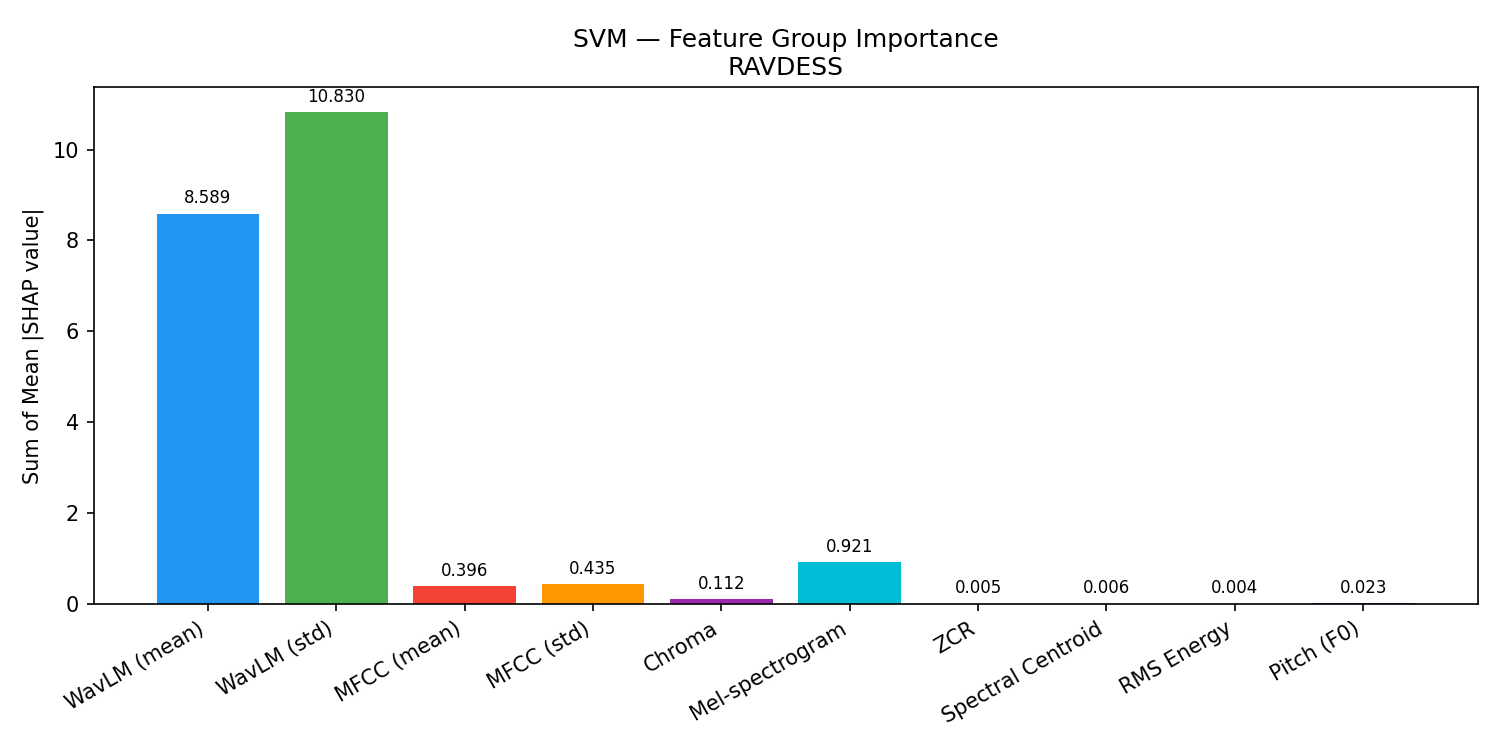
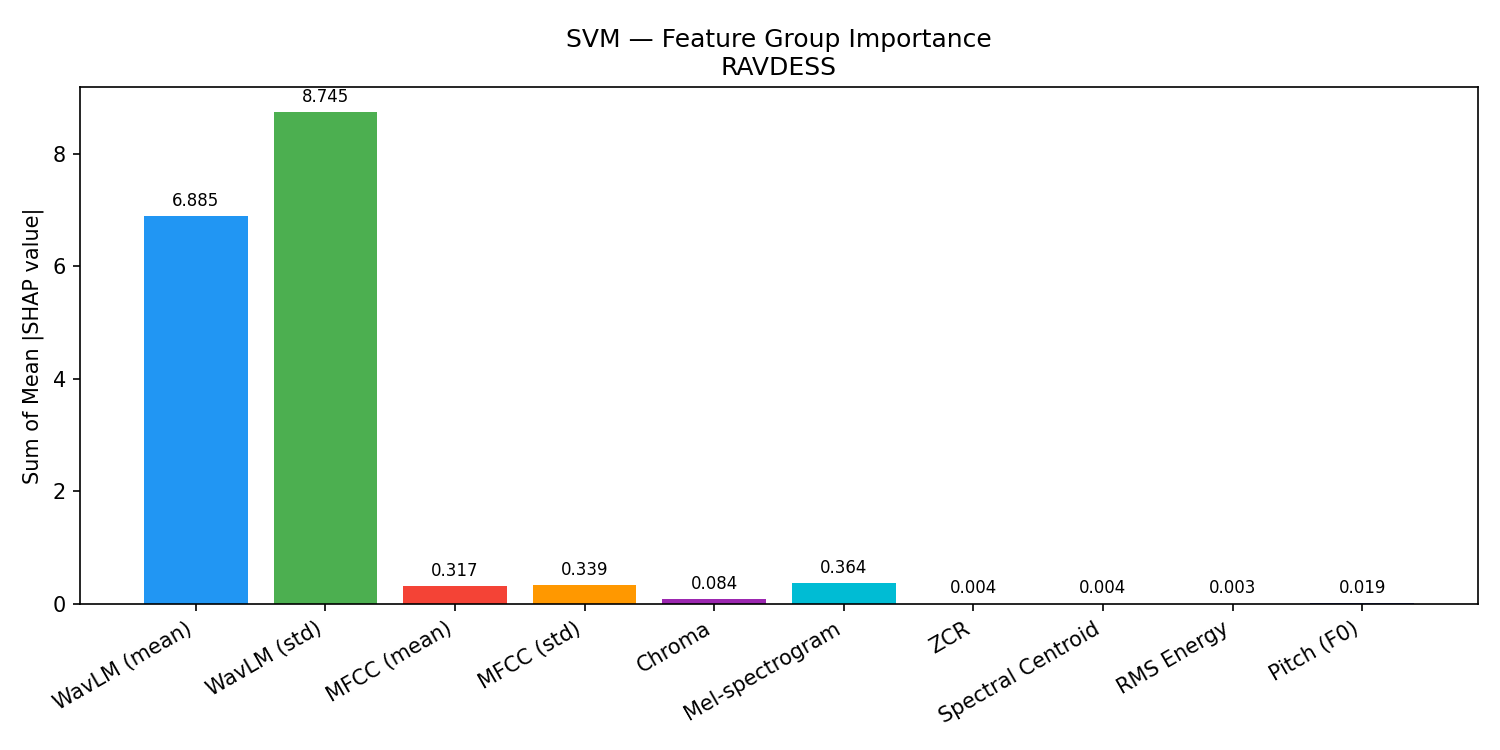
Compute SVM feature-group importance with genuine SHAP
The SVM feature-group plots were computed from mean absolute LinearSVC
coefficients while the y-axis was labelled "Sum of Mean |SHAP value|".
Switch to real SHAP via shap.LinearExplainer (exact closed form for a
linear model: phi_j = w_j(x_j - E[x_j])), so the label is now accurate.
KernelSHAP is unsuitable here (ill-posed at 2275 dims). Regenerated
svm_feature_groups.png for EMBODB, RAVDESS, SAVEE. Also reseed before
drawing the SHAP background subset for reproducibility.

diff --git a/standard/scripts/xai_analysis.py b/standard/scripts/xai_analysis.py
@@ -374,7 +374,8 @@ def run_xai(key, ddir, loader_fn, device):
         preds = torch.argmax(maml_ft(torch.tensor(X_te_sc, dtype=torch.float32, device=device)), 1).cpu().numpy()
     print(f"    MAML test acc: {accuracy_score(y_te, preds):.4f}")
 
-    # Background sets (small for speed)
+    # Background sets (small for speed); reseed for reproducible subsets
+    np.random.seed(SEED)
     bg_idx  = np.random.choice(len(X_trfull_sc), min(100, len(X_trfull_sc)), replace=False)
     te_idx  = np.random.choice(len(X_te_sc),     min(100, len(X_te_sc)),     replace=False)
     X_bg    = X_trfull_sc[bg_idx]
@@ -389,14 +390,25 @@ def run_xai(key, ddir, loader_fn, device):
                               rf_m.predict_proba(pca.transform(X_te_s)),
                               xgb_m.predict_proba(pca.transform(X_te_s))])
 
-    # ── SHAP: SVM (linear) ────────────────────────────────────────────────────
-    print("  SHAP: SVM (linear explainer) ...")
-    # Extract averaged coefficients from CalibratedClassifierCV
-    coefs = np.mean([c.estimator.coef_ for c in svm.calibrated_classifiers_], axis=0)
-    # Mean absolute coefficient per feature (aggregated over all classes)
-    mean_abs_coef = np.mean(np.abs(coefs), axis=0)
+    # ── SHAP: SVM (LinearExplainer, exact closed form) ─────────────────────────
+    print("  SHAP: SVM (LinearExplainer) ...")
+    # Averaged linear decision function from the calibrated sub-estimators
+    coefs      = np.mean([c.estimator.coef_      for c in svm.calibrated_classifiers_], axis=0)
+    intercepts = np.mean([c.estimator.intercept_ for c in svm.calibrated_classifiers_], axis=0)
+    mean_abs_coef = np.mean(np.abs(coefs), axis=0)   # for the coef-labelled plots below
 
-    # Top-20 handcrafted features (skip WavLM dims for interpretability)
+    # Genuine SHAP for the linear model: phi_j = w_j (x_j - E[x_j]); no sampling,
+    # numerically stable (KernelSHAP on 2275-D is ill-posed and blows up).
+    svm_expl = shap.LinearExplainer((coefs, intercepts), X_bg,
+                                    feature_perturbation="interventional")
+    svm_shap = svm_expl.shap_values(X_te_s)
+    if isinstance(svm_shap, list):
+        svm_shap = np.stack(svm_shap, axis=-1)        # (n_te, n_feat, n_cls)
+    elif svm_shap.ndim == 2:
+        svm_shap = svm_shap[:, :, np.newaxis]
+    mean_abs_shap_svm = np.mean(np.abs(svm_shap), axis=(0, 2))   # (n_feat,)
+
+    # Top-20 handcrafted features (coefficient magnitudes, labelled as such)
     hand_start = X.shape[1] - 227
     hand_coef  = mean_abs_coef[hand_start:]
     hand_names = feat_names[hand_start:]
@@ -406,11 +418,11 @@ def run_xai(key, ddir, loader_fn, device):
              os.path.join(xai_dir, "svm_feature_importance_handcrafted.png"),
              color="#2196F3")
 
-    # Feature group importance (all features)
+    # Feature group importance from genuine SHAP values
     group_vals = {}
     for gname, (g0, g1) in FEATURE_GROUPS.items():
-        g1 = min(g1, len(mean_abs_coef))
-        group_vals[gname] = float(mean_abs_coef[g0:g1].sum())
+        g1 = min(g1, len(mean_abs_shap_svm))
+        group_vals[gname] = float(mean_abs_shap_svm[g0:g1].sum())
     group_bar_plot(group_vals,
                    f"SVM — Feature Group Importance\n{key}",
                    os.path.join(xai_dir, "svm_feature_groups.png"))
